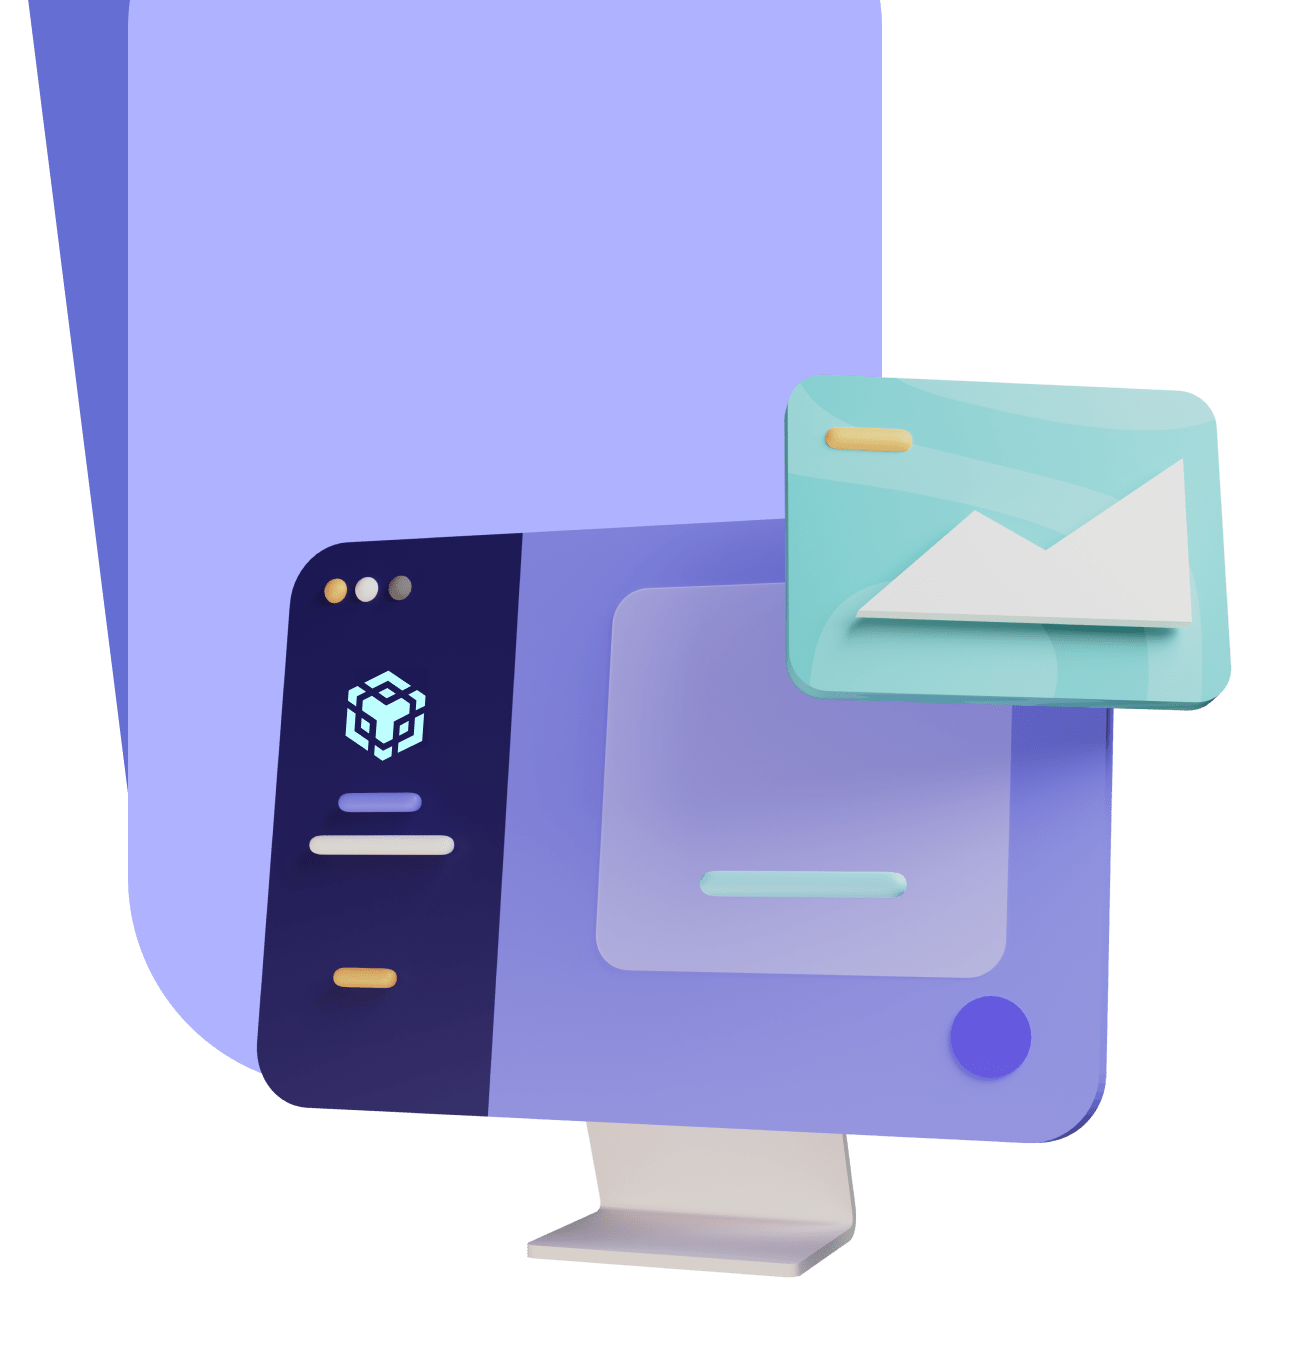
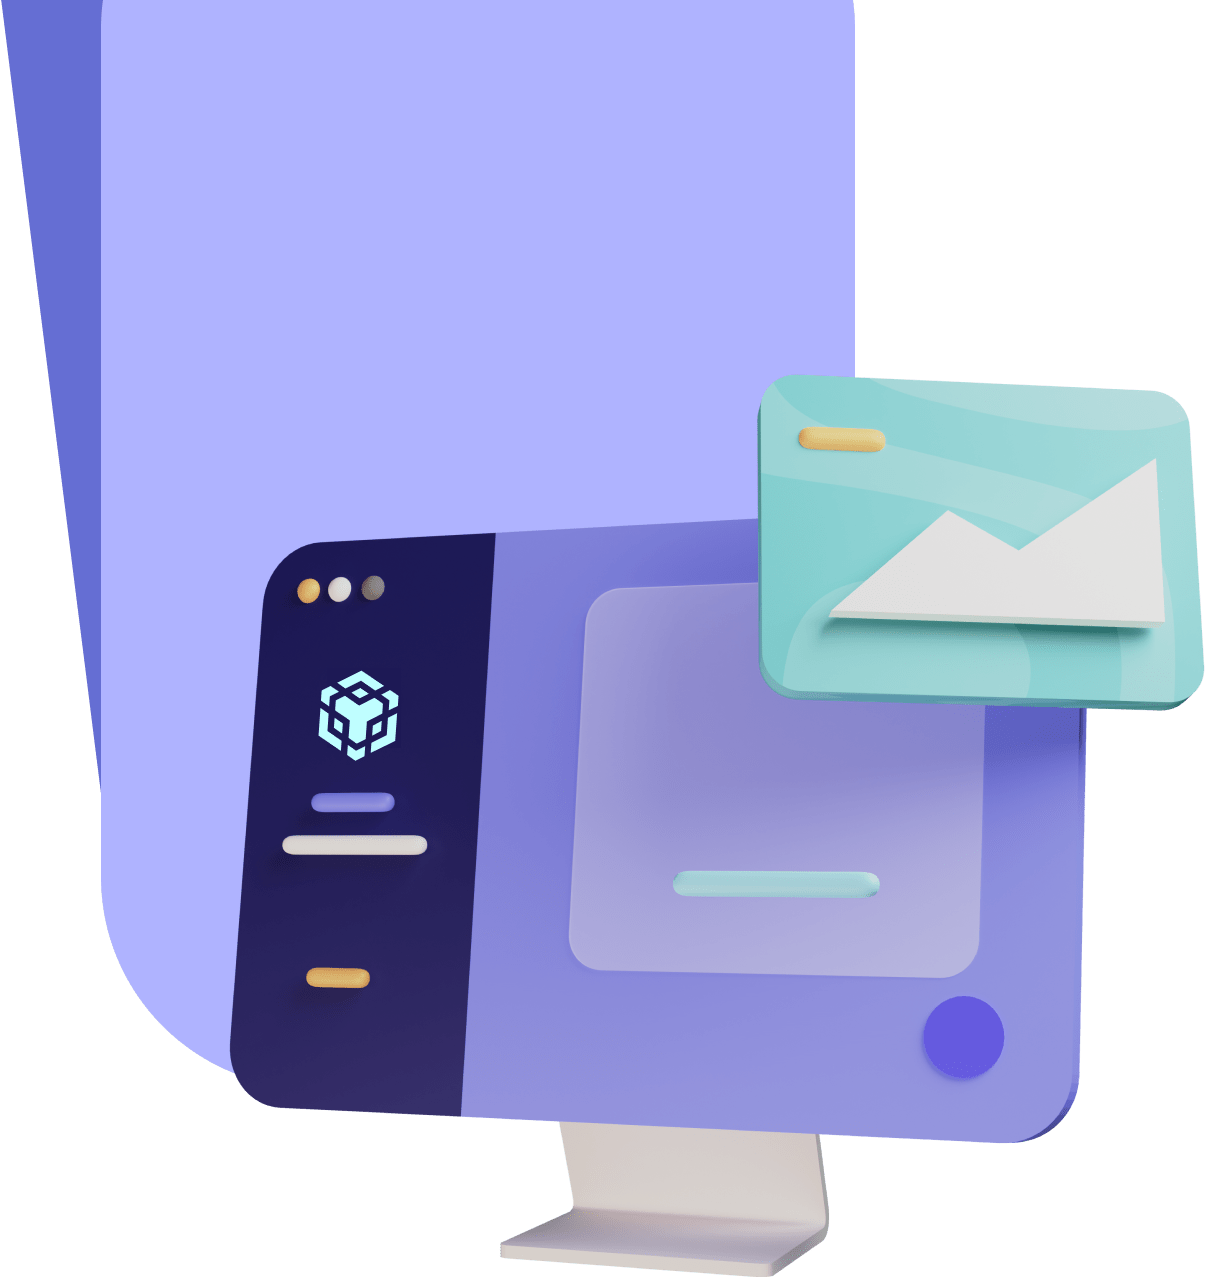
Modified CSS

Changed region(s): [[0.0, 0.0, 1.0, 1.0], [0.7369, 0.5803, 0.7676, 0.6108]]

diff --git a/public/css/error.css b/public/css/error.css
@@ -1,12 +1,12 @@
 body {
     height: 100vh;
     width: 100vw;
-    background-color: #1e213e;
     display: flex;
     flex-direction: column;
     justify-content: center;
     align-items: center;
 }
+
 main {
     display: flex;
     background-color: #f6f7fd;
@@ -16,20 +16,25 @@ main {
     height: 80vh;
     width: 80vw;
 }
+
 main > * {
     margin-bottom: 20px;
 }
+
 .head {
     font-size: 25vh;
 }
-.opps {
+
+.oops {
     font-size: 7vh;
     text-align: center;
 }
+
 p {
     font-size: 3vh;
     text-align: center;
 }
+
 a {
     background-color: #1e213e;
     color: #f6f7fd;

diff --git a/public/css/register.css b/public/css/register.css
@@ -13,8 +13,8 @@ h1 {
 }
 
 .art-container img {
-    height: 880px;
-    width: 880px;
+    height: 820px;
+    aspect-ratio: auto;
     position: absolute;
     left: 150px;
 }
